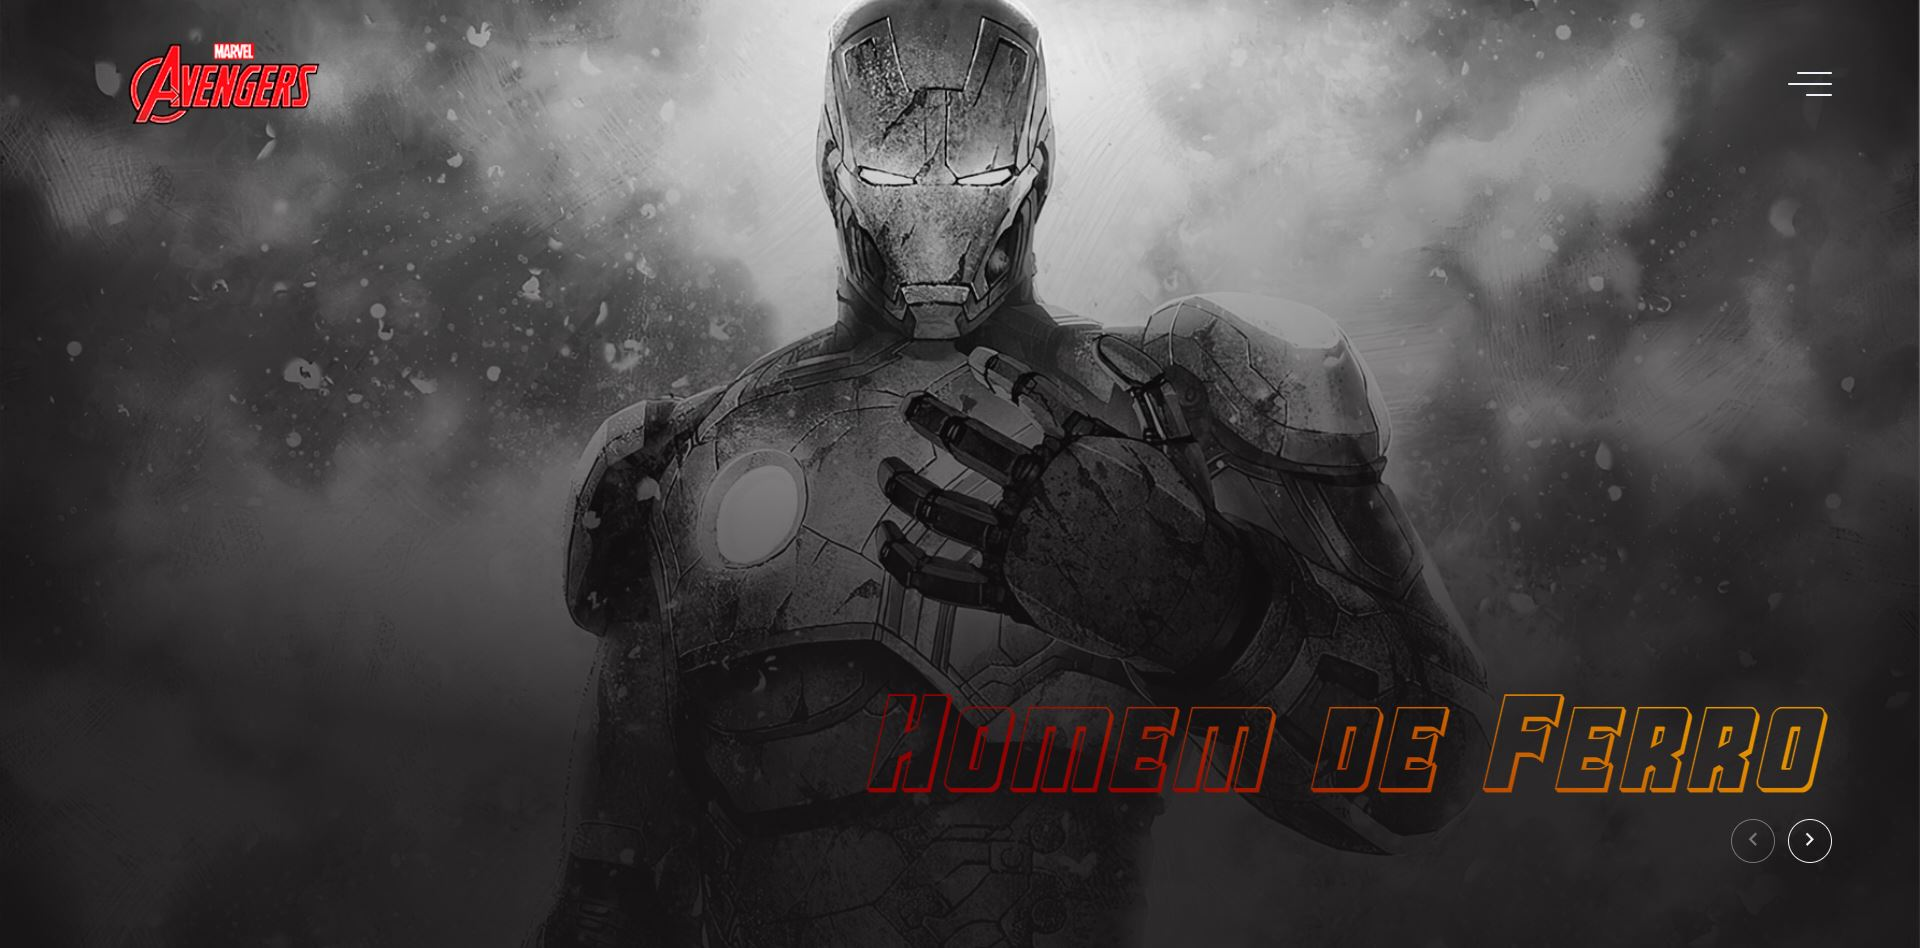
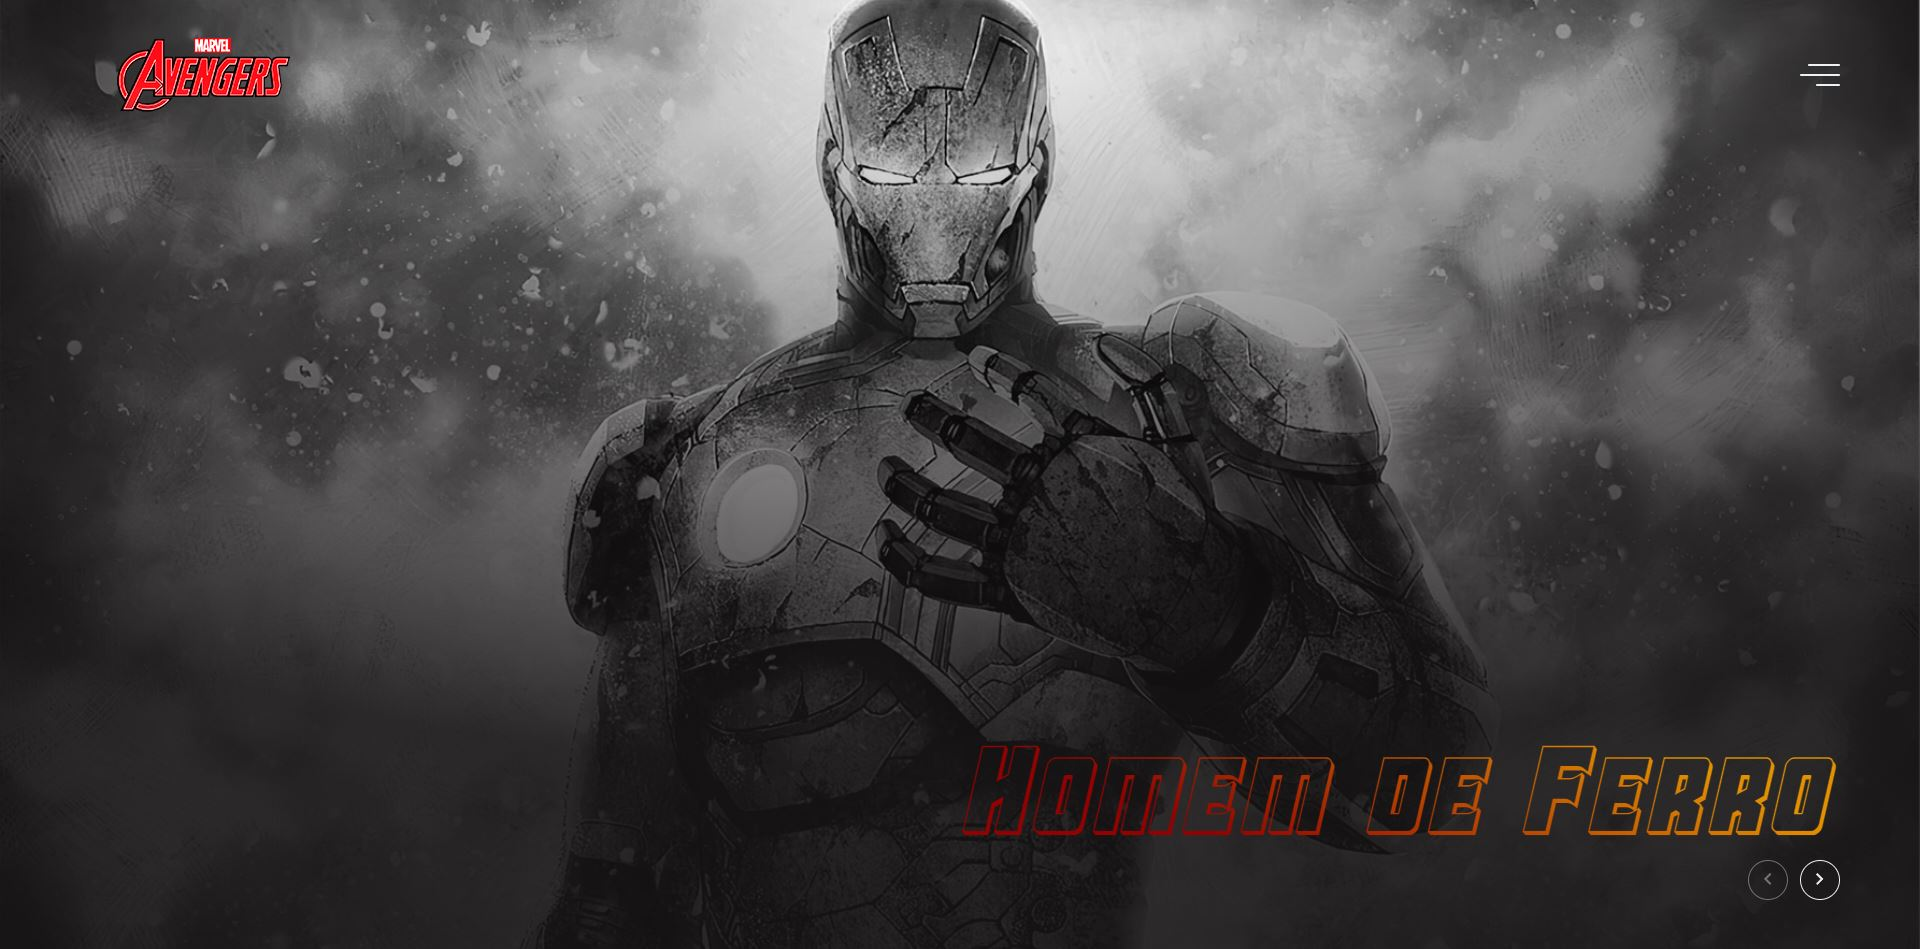
edit

diff --git a/styles/navigation.css b/styles/navigation.css
@@ -3,16 +3,17 @@
     top: 0;
     right: -600px;
 
-    width: 600px;
+    width: 450px;
     height: 100vh;
     background: rgba(0, 0, 0, 0.6);
     backdrop-filter: blur(2px);
 
     display: flex;
-    flex-direction: column;
-    row-gap: 48px;
+    flex-direction:column;
 
-    padding: 72px 80px 0;
+    row-gap: 50px;
+
+    padding: 170px 25px 20px;
     transition: all 0.4s;
 }
 
@@ -25,9 +26,10 @@
 }
 
 #navigation div {
-    display: grid;
+    display:grid;
+    flex-direction: column;
     grid-template-columns: 1fr 1fr;
-    gap: 32px 40px;
+    row-gap: 30px;
 }
 
 #navigation div button {
@@ -42,6 +44,7 @@
     opacity: 0.5;
     align-items: center;
     transition: all 0.4s;
+    padding: 5px;
 }
 
 #navigation div button:hover img {

diff --git a/styles/main.css b/styles/main.css
@@ -1,10 +1,12 @@
 main {
-    align-self: flex-end;
+    align-self: flex;
 
     display: flex;
+
     flex-direction: column;
-    align-items: flex-end;
+    align-items: center;
     row-gap: 12px;
+
 }
 
 
@@ -13,11 +15,13 @@ main div {
     align-items: center;
     column-gap: 12px;
     margin-bottom: -30px;
+    
 }
 
 main div button {
     width: 40px;
     height: 40px;
+    
 
     background: transparent;
     border-radius: 100%;
@@ -35,9 +39,10 @@ main div button svg path {
 }
 
 #member__name {
-    font-size: 120px;
+    font-size: 90px;
     letter-spacing: 6px;
     font-weight: 400;
+
 
     color: transparent;
     font-family: 'Avengers Italic';

diff --git a/script/index.js b/script/index.js
@@ -3,7 +3,7 @@ const members = [
   { name: 'Capitão América', id: 'capitao' },
   { name: 'O Incrível Hulk', id: 'hulk' },
   { name: 'Viúva Negra', id: 'viuva' },
-  { name: 'Thor, Deus do Trovao', id: 'thor' },
+  { name: 'Thor, Deus do Trovão', id: 'thor' },
   { name: 'Pantera Negra', id: 'pantera' },
 ]
 

diff --git a/index.html b/index.html
@@ -36,7 +36,6 @@
         </button>
 
         <nav id="navigation">
-          <strong>Personagens</strong>
           <div>
             <button type="button" onclick="setMember(0)">
               <img src="./assets/members/homemFerro.jpg"/>
